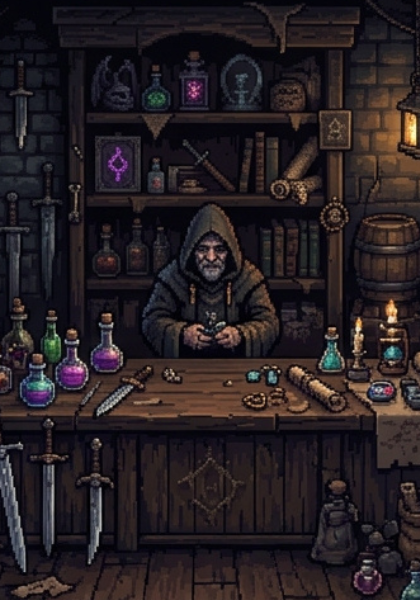
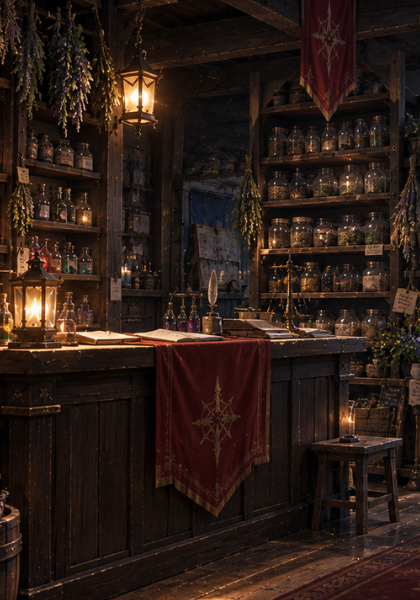
Add files via upload

diff --git a/index.html b/index.html
@@ -8,7 +8,7 @@
 <meta name="apple-mobile-web-app-capable" content="yes">
 <meta name="apple-mobile-web-app-status-bar-style" content="black-translucent">
 <meta name="apple-mobile-web-app-title" content="DUNGEON WALKER">
-<title>DUNGEON WALKER DWCver438</title>
+<title>DUNGEON WALKER DWCver439</title>
 <style>
 @import url('https://fonts.googleapis.com/css2?family=Cinzel:wght@400;700&display=swap');
 :root{--bg:#07050e;--panel:#110d1a;--panel2:#180f28;--border:#2a1e42;--gold:#c9a84c;--text:#e8dcc8;--dim:#5a4a3a;--common:#8a9aaa;--uncommon:#50b450;--rare:#4a8aff;--epic:#d040ff;--legendary:#ff9500;}
@@ -830,7 +830,7 @@ html,body{height:100%;overflow:hidden;background:var(--bg);color:var(--text);fon
 
 <div id="tap-to-start-screen" style="display:none;position:fixed;inset:0;background:#07050e;z-index:1100;align-items:center;justify-content:center;flex-direction:column;gap:24px;cursor:pointer;touch-action:manipulation;transition:opacity .3s;opacity:1;">
   <div style="font-family:'Cinzel',serif;font-size:22px;color:#c9a84c;letter-spacing:6px;text-shadow:0 0 24px rgba(201,168,76,.8);animation:logo-pulse 1.5s ease-in-out infinite;">DUNGEON WALKER</div>
-  <div style="font-family:'Cinzel',serif;font-size:11px;color:rgba(201,168,76,.45);letter-spacing:2px;">v438</div>
+  <div style="font-family:'Cinzel',serif;font-size:11px;color:rgba(201,168,76,.45);letter-spacing:2px;">v439</div>
   <div style="font-family:'Cinzel',serif;font-size:13px;color:rgba(201,168,76,.7);letter-spacing:4px;animation:logo-pulse 1.5s ease-in-out infinite;">▶ TAP TO START</div>
 </div>
 <div id="opening-screen" style="display:none;position:fixed;inset:0;background:#000;z-index:1004;opacity:1;touch-action:none;overflow:hidden;">
@@ -864,7 +864,7 @@ html,body{height:100%;overflow:hidden;background:var(--bg);color:var(--text);fon
     <div style="font-family:'Cinzel',serif;font-size:22px;font-weight:700;color:#b8d4ff;letter-spacing:8px;text-shadow:0 0 20px rgba(100,160,255,.8),0 0 40px rgba(100,160,255,.3),1px 1px 0 #0a2060;text-align:center;">CHARGE</div>
     <div style="height:2px;width:220px;background:linear-gradient(90deg,transparent,#c9a84c,transparent);margin-top:6px;"></div>
     <div style="font-family:'Cinzel',serif;font-size:10px;color:rgba(201,168,76,.5);letter-spacing:3px;">CARD BATTLE RPG</div>
-    <div style="font-family:sans-serif;font-size:9px;color:rgba(201,168,76,.35);letter-spacing:1px;margin-top:2px;">ver438</div>
+    <div style="font-family:sans-serif;font-size:9px;color:rgba(201,168,76,.35);letter-spacing:1px;margin-top:2px;">ver439</div>
     <div style="font-family:'Cinzel',serif;font-size:12px;color:rgba(201,168,76,.7);letter-spacing:4px;animation:logo-pulse 1.5s ease-in-out infinite;margin-top:10px;">▶ TAP TO START</div>
   </div>
 
@@ -1241,7 +1241,7 @@ html,body{height:100%;overflow:hidden;background:var(--bg);color:var(--text);fon
 
 
 <!-- エリア選択・チャージ選択画面（タイトル/メニューから使うため#appの外側に配置） -->
-  <div class="overlay" id="ov-area-select" style="gap:14px;background-image:url(munyu_haikei.png);background-size:cover;background-position:center;z-index:2000;position:fixed;">
+  <div class="overlay" id="ov-area-select" style="gap:14px;background-image:url(menubg_eria.png);background-size:cover;background-position:center;z-index:2000;position:fixed;">
     <div class="ov-title" style="font-size:18px;">🗺 エリア選択</div>
     <div style="display:flex;align-items:center;justify-content:space-between;width:100%;"><div class="ov-sub" style="color:#fff;font-weight:bold;font-style:normal;background:rgba(201,168,76,.15);border:1px solid rgba(201,168,76,.5);border-radius:8px;padding:5px 16px;letter-spacing:1px;">冒険するエリアを選択してください</div><div id="btn-area-back" style="background:rgba(0,0,0,.85);border:1px solid rgba(201,168,76,.5);border-radius:8px;padding:6px 14px;font-family:'Cinzel',serif;font-size:11px;color:#c9a84c;cursor:pointer;touch-action:manipulation;">← 戻る</div></div>
     <div style="display:flex;flex-direction:column;gap:10px;width:100%;padding:0 4px;">
